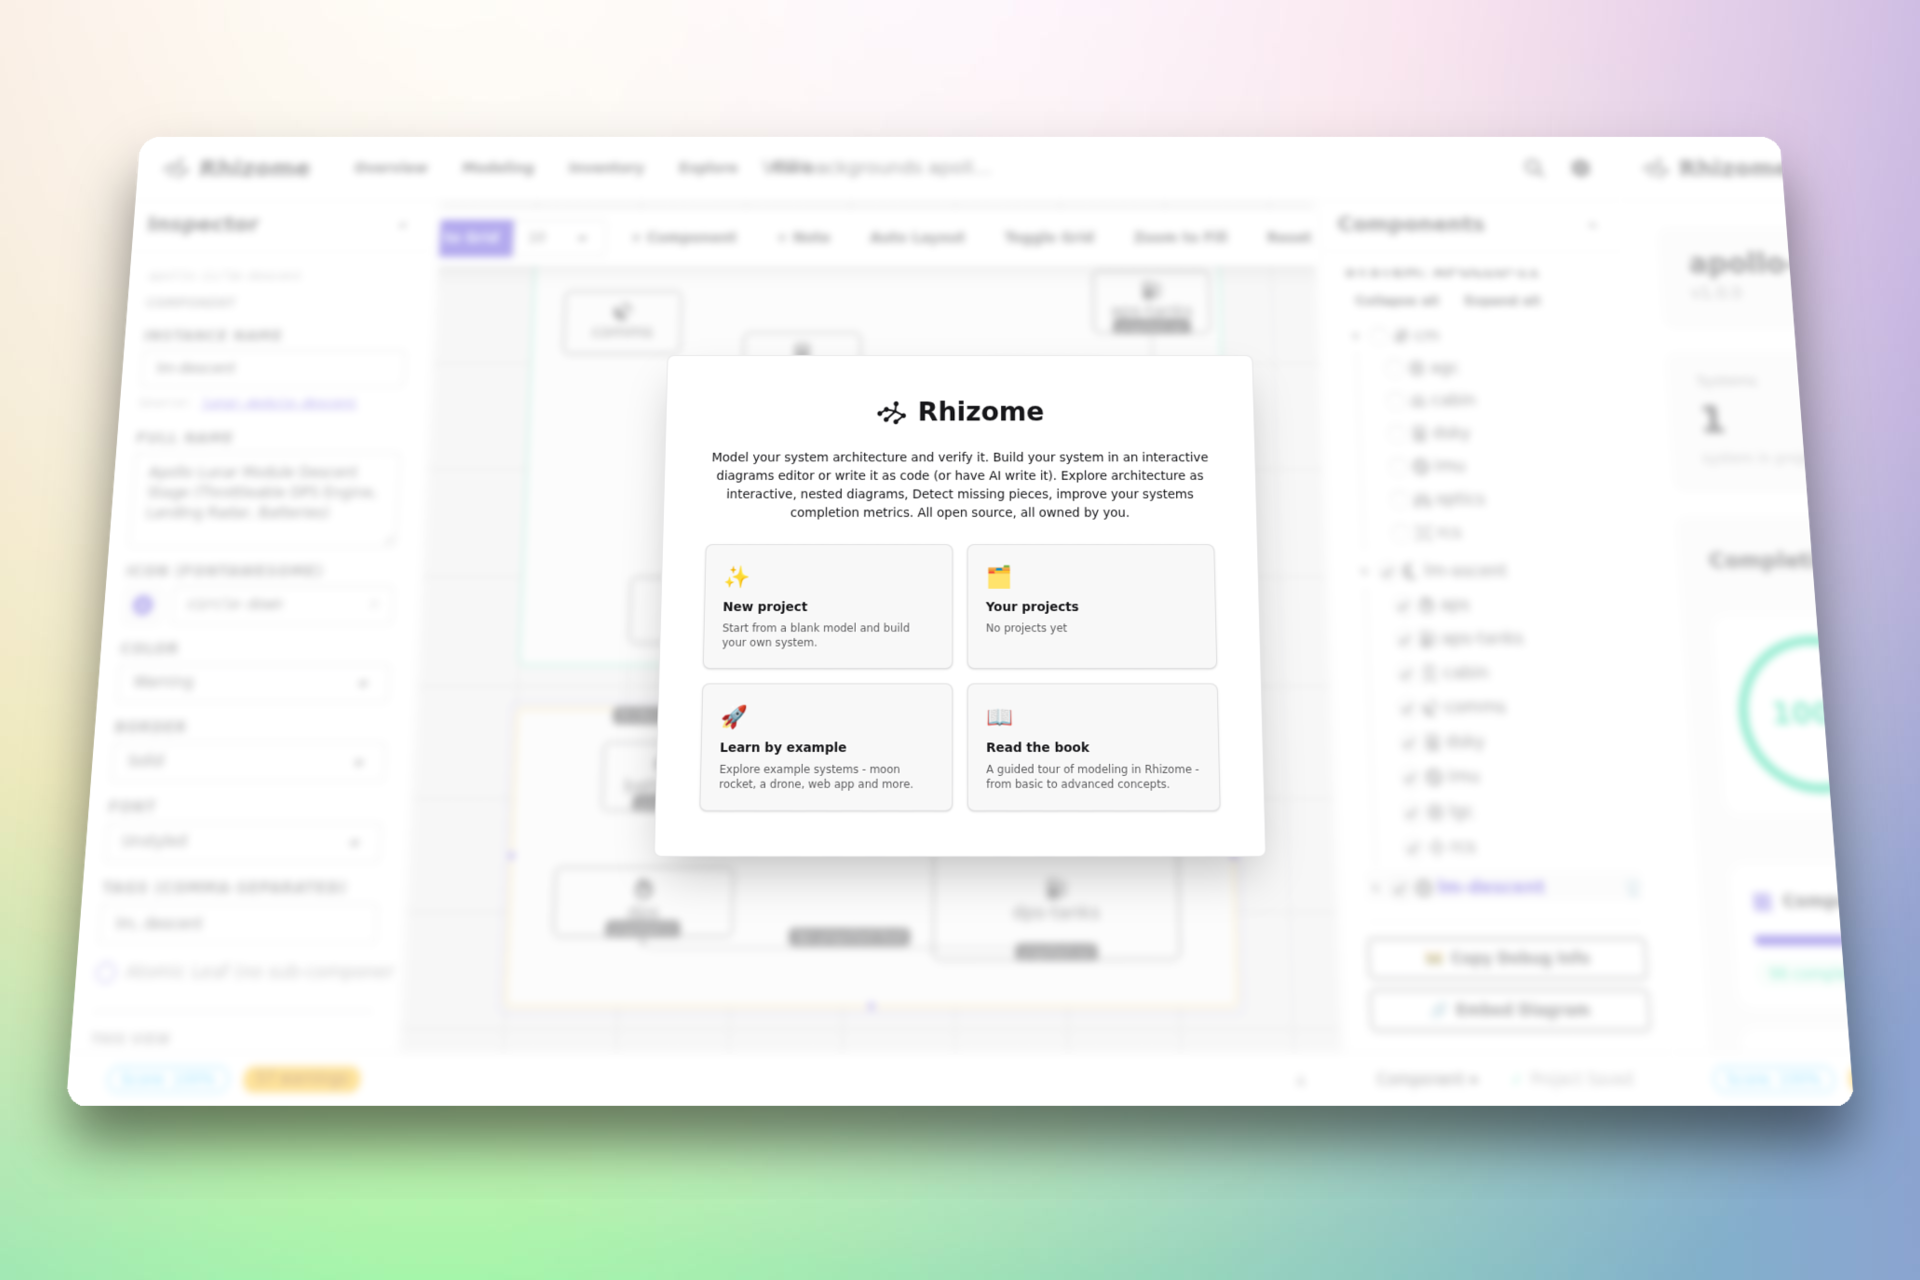
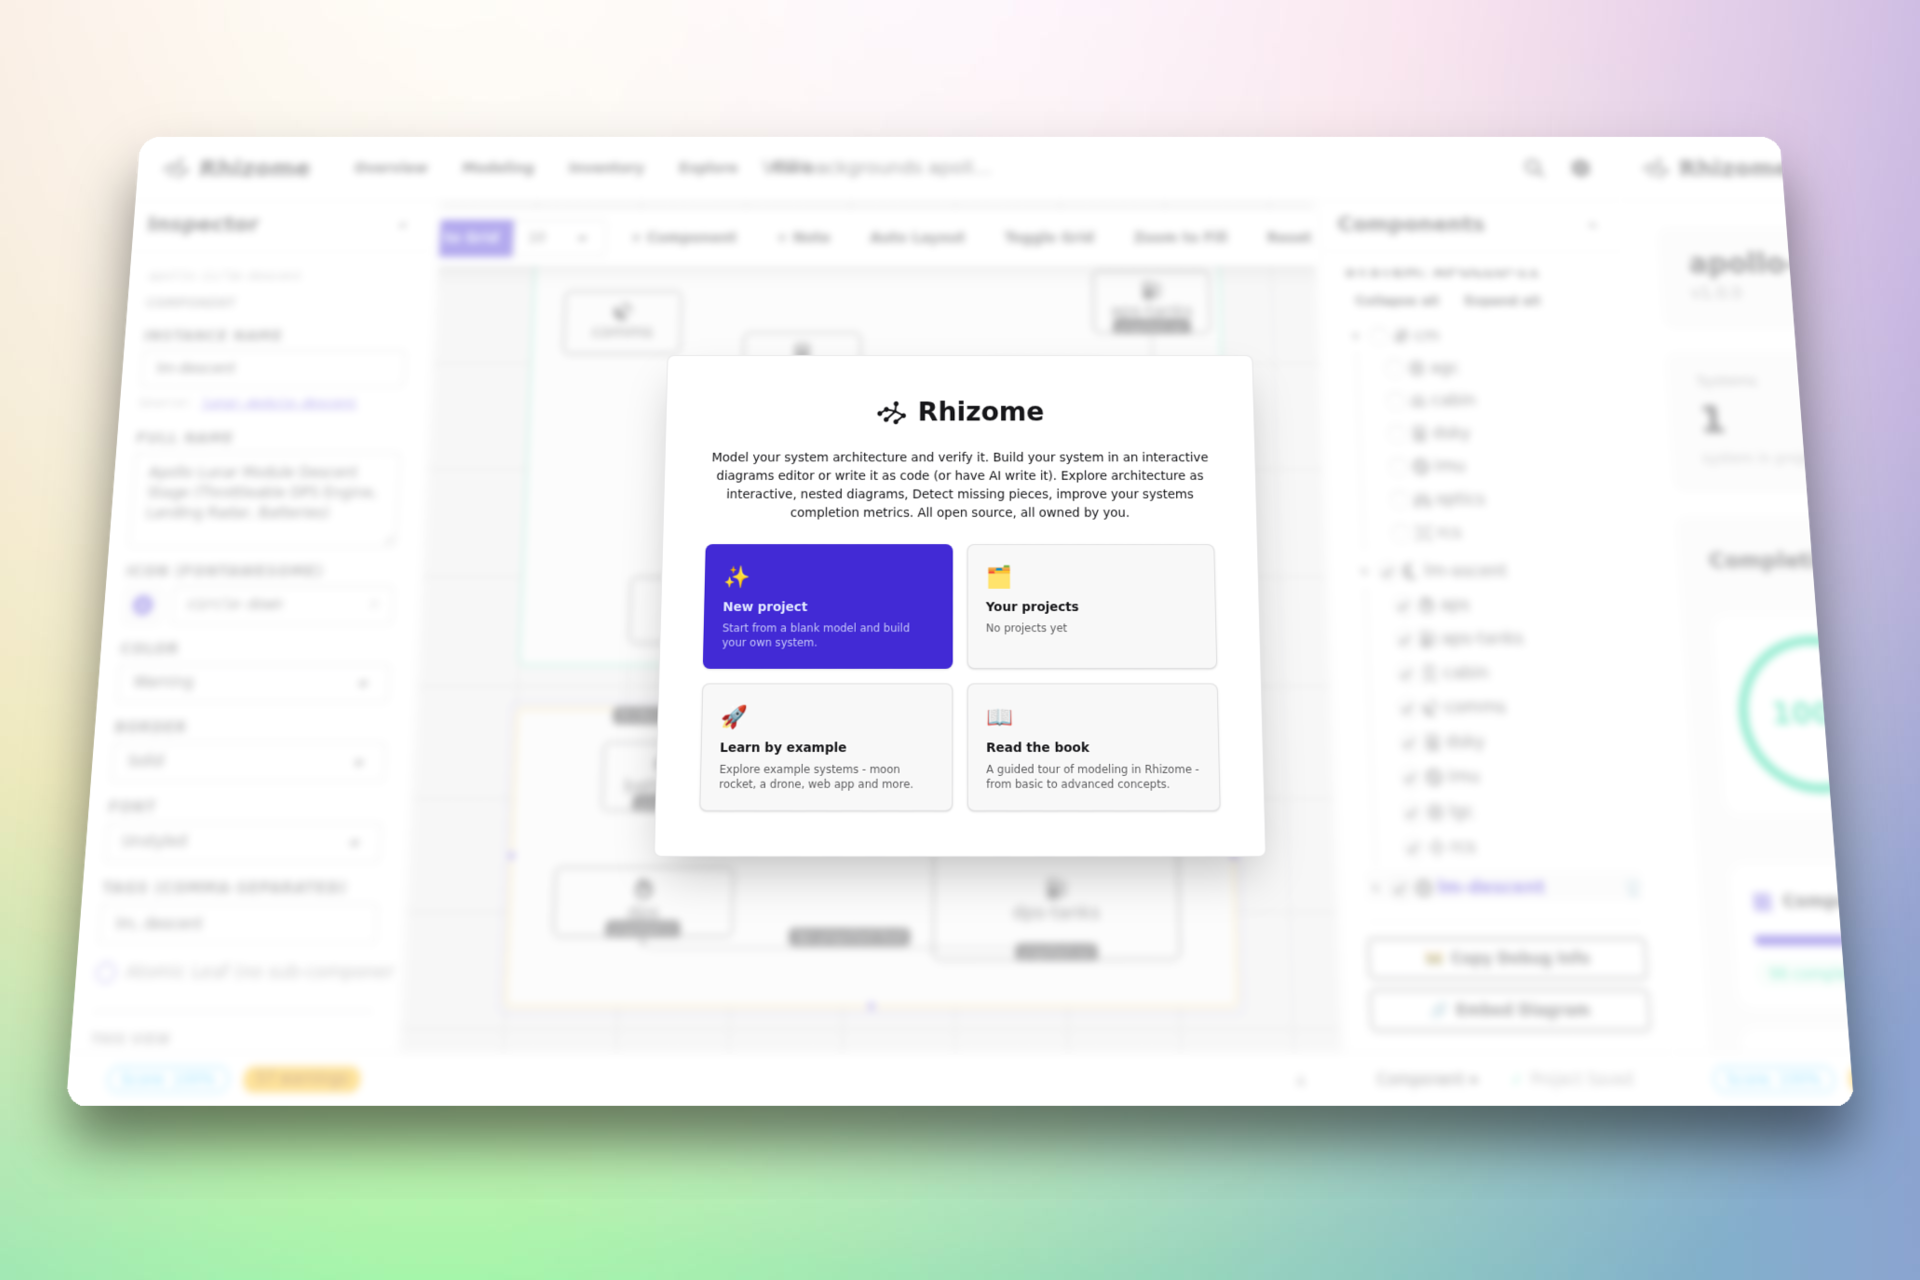
style(web): highlight New project on the landing page, stack cards on phones
New project goes back to the primary colour so first-time visitors see
where to start; the four cards keep the same size. Below `sm` the cards
are a single column of full-width cards instead of a 2x2 grid.

The MobileGrid story becomes MobileStacks (one column, same left edge and
width, still not clipped); landing and README hero baselines refreshed.

Claude-Session: https://claude.ai/code/session_01TEnVAp8pEvUivL1U3hnLLQ

Changed region(s): [[0.3438, 0.4062, 0.5, 0.5312]]

diff --git a/web/src/components/LandingPage.stories.ts b/web/src/components/LandingPage.stories.ts
@@ -66,10 +66,11 @@ export const WithProjects: Story = {
   },
 };
 
-// The four cards are a 2x2 grid at every width, phones included. Storybook's
-// test runner renders ~414px wide, so this also pins the phone layout; the
-// VRT baseline at `mobile1` keeps its pixels.
-export const MobileGrid: Story = {
+// Below `sm` the cards are one column of full-width cards rather than a
+// grid. Storybook's test runner renders ~414px wide, so this pins the phone
+// layout; the VRT baseline at `mobile1` keeps its pixels. (The 2x2 grid above
+// `sm` is covered by e2e/landing.spec.ts and the NoProjects baseline.)
+export const MobileStacks: Story = {
   globals: {
     viewport: { value: "mobile1" },
   },
@@ -78,18 +79,20 @@ export const MobileGrid: Story = {
   },
   play: async ({ canvasElement }) => {
     const { newProject, projects, example, book } = cards(canvasElement);
-    const [a, b, c, d] = [newProject, projects, example, book].map((el) =>
+    const rects = [newProject, projects, example, book].map((el) =>
       el.getBoundingClientRect(),
     );
-    if (!a || !b || !c || !d) throw new Error("cards not laid out");
 
-    // Top row: New project | Your projects. Bottom row: example | book.
-    await expect(Math.abs(a.top - b.top)).toBeLessThanOrEqual(1);
-    await expect(Math.abs(c.top - d.top)).toBeLessThanOrEqual(1);
-    await expect(b.left).toBeGreaterThanOrEqual(a.right);
-    await expect(c.top).toBeGreaterThanOrEqual(a.bottom);
-    // Equal cards: none of them spans the row as a primary action.
-    await expect(Math.abs(a.width - b.width)).toBeLessThanOrEqual(1);
+    // One column, in reading order: each card starts below the previous
+    // one, and all share the same left edge and full width.
+    for (let i = 1; i < rects.length; i++) {
+      const prev = rects[i - 1];
+      const cur = rects[i];
+      if (!prev || !cur) throw new Error("cards not laid out");
+      await expect(cur.top).toBeGreaterThanOrEqual(prev.bottom);
+      await expect(Math.abs(cur.left - prev.left)).toBeLessThanOrEqual(1);
+      await expect(Math.abs(cur.width - prev.width)).toBeLessThanOrEqual(1);
+    }
 
     // On a phone the card is taller than the screen: it must scroll, not be
     // clipped. A vertically centred, fixed-height hero pushed its top (the

diff --git a/web/src/components/LandingPage.svelte b/web/src/components/LandingPage.svelte
@@ -36,11 +36,12 @@
   // Quoted so the inlined data URI cannot break the url() token.
   const maskImage = `url("${logoMarkUrl}")`;
 
-  // Four equal cards: which one matters depends on who is visiting — New
-  // project while learning the app, Your projects every day after that — so
-  // none of them is styled as the primary action.
+  // Four cards of the same size; New project keeps the primary colour so a
+  // first-time visitor sees where to start.
   const cardClass =
-    "card bg-base-200 shadow hover:bg-base-300 hover:border-primary/50 transition text-left p-4 sm:p-5 cursor-pointer border border-base-content/10";
+    "card bg-base-200 shadow hover:bg-base-300 hover:border-primary/50 transition text-left p-5 cursor-pointer border border-base-content/10";
+  const primaryCardClass =
+    "card bg-primary text-primary-content shadow hover:bg-primary/90 transition text-left p-5 cursor-pointer border border-primary/20";
 </script>
 
 <div class="flex-1 w-full bg-base-100 overflow-y-auto">
@@ -86,13 +87,14 @@
           pieces, improve your systems completion metrics. All open source, all
           owned by you.
         </p>
-        <!-- A 2x2 grid at every width, phones included: start or continue on
-             the top row, learn on the bottom row. -->
-        <div class="grid grid-cols-2 gap-3 sm:gap-4 w-full max-w-2xl">
-          <button class={cardClass} onclick={createEmptyProject}>
+        <!-- A 2x2 grid from `sm` up (start or continue on the top row, learn
+             on the bottom row); on phones a single column of full-width
+             cards in the same order. -->
+        <div class="grid grid-cols-1 sm:grid-cols-2 gap-4 w-full max-w-2xl">
+          <button class={primaryCardClass} onclick={createEmptyProject}>
             <div class="text-2xl mb-2">✨</div>
-            <div class="font-semibold text-base-content">New project</div>
-            <p class="text-xs text-base-content/70 mt-1">
+            <div class="font-semibold">New project</div>
+            <p class="text-xs opacity-80 mt-1">
               Start from a blank model and build your own system.
             </p>
           </button>

diff --git a/web/e2e/landing.spec.ts b/web/e2e/landing.spec.ts
@@ -3,7 +3,7 @@ import { createNewProject } from "./helpers";
 
 // `/` is always the landing page and `/projects` is always the projects list:
 // what an address shows no longer depends on whether projects exist. The
-// landing offers four equal ways in (a 2x2 grid), one of which leads to the
+// landing offers four ways in (a 2x2 grid on desktop), one of which leads to the
 // list.
 
 const HERO = /Model your system architecture and verify it\./;
@@ -39,7 +39,8 @@ test("landing offers four ways in, including the projects list", async ({
   expect(b.x).toBeGreaterThan(a.x + a.width - 1);
   expect(c.y).toBeGreaterThan(a.y + a.height - 1);
   expect(Math.abs(a.x - c.x)).toBeLessThanOrEqual(1);
-  // Equal cards: no single primary spanning the row.
+  // Same-size cards: New project stands out by colour, not by spanning the
+  // row.
   expect(Math.abs(a.width - b.width)).toBeLessThanOrEqual(1);
 });
 
